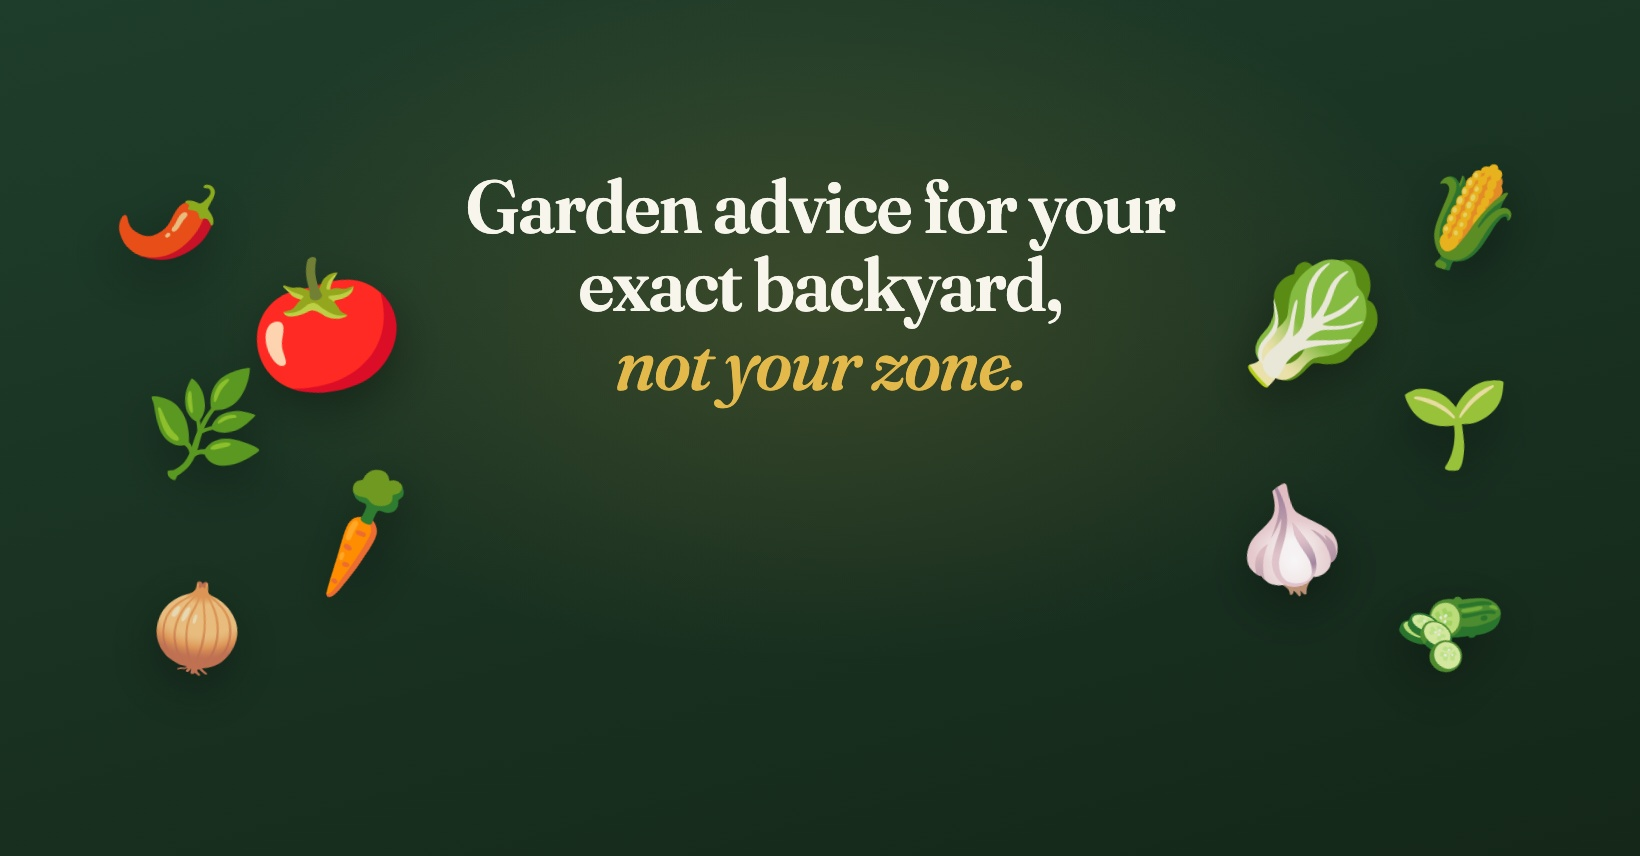
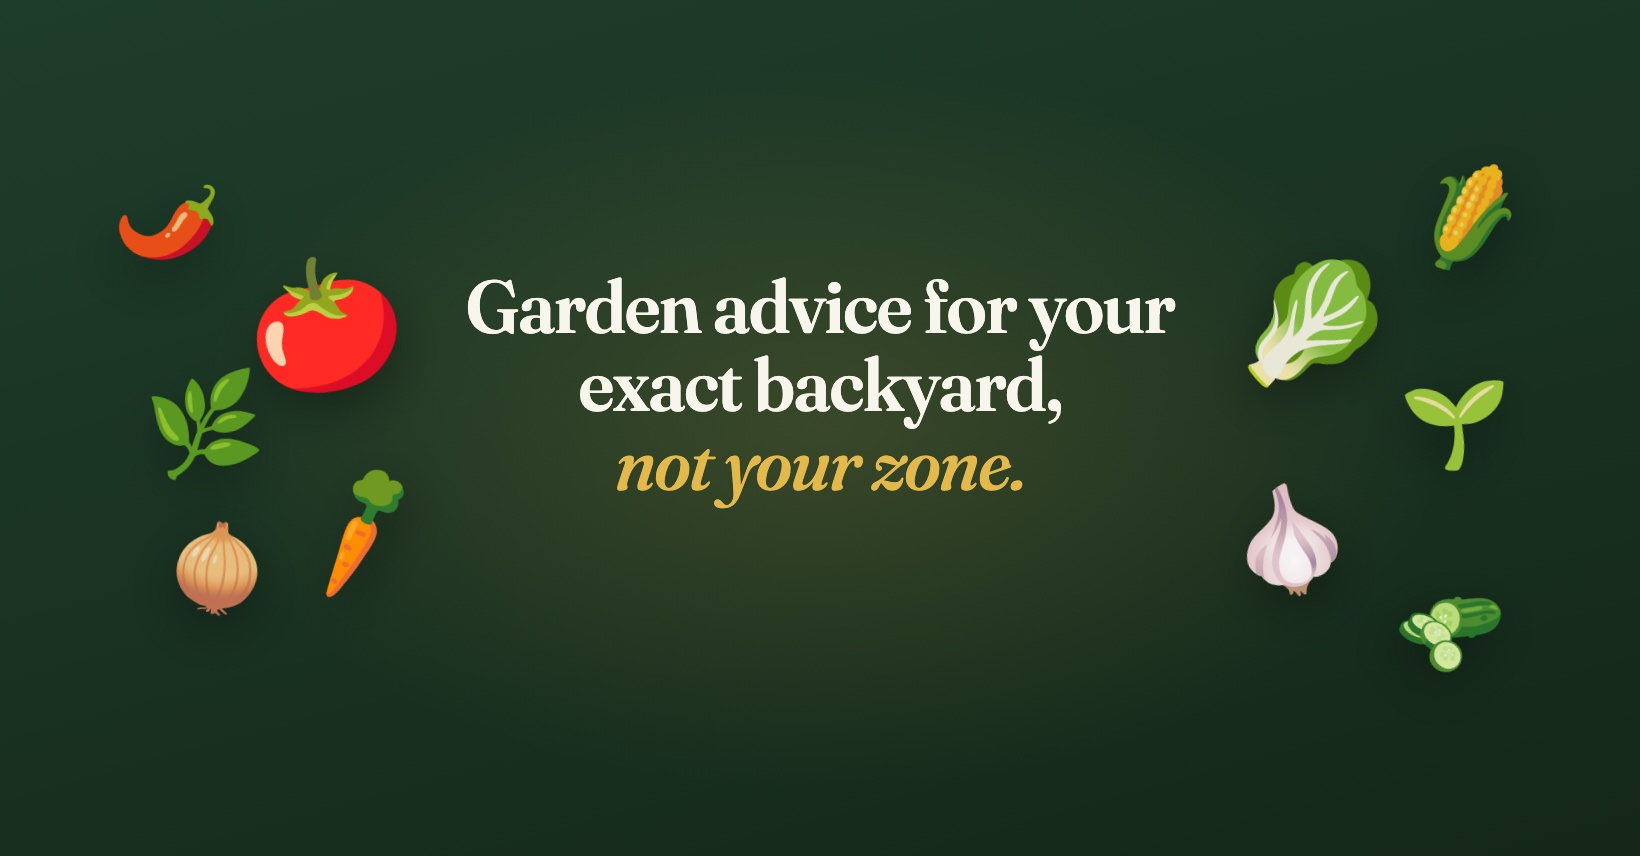
Facebook cover: centre the headline for the real Page layout (profile picture bottom-left)

Changed region(s): [[0.2799, 0.2126, 0.7152, 0.486], [0.3732, 0.5164, 0.622, 0.6075], [0.0933, 0.6075, 0.1555, 0.7897]]

diff --git a/marketing/facebook/cover-source.html b/marketing/facebook/cover-source.html
@@ -3,8 +3,8 @@
 <style>
 html,body{margin:0;width:1640px;height:856px;overflow:hidden}
 body{position:relative;
- background:radial-gradient(ellipse 900px 520px at 50% 35%,rgba(227,185,76,0.16),transparent 70%),linear-gradient(165deg,#1F3D2B 0%,#142719 100%)}
-.text{position:absolute;left:0;right:0;top:168px;display:flex;justify-content:center}
+ background:radial-gradient(ellipse 900px 520px at 50% 50%,rgba(227,185,76,0.16),transparent 70%),linear-gradient(165deg,#1F3D2B 0%,#142719 100%)}
+.text{position:absolute;left:0;right:0;top:268px;display:flex;justify-content:center}
 h1{font-family:'Fraunces',serif;font-weight:600;font-size:74px;line-height:1.06;color:#F7F5EC;margin:0;letter-spacing:-1.5px;text-align:center;max-width:860px}
 h1 em{font-style:italic;font-weight:500;color:#E3B94C}
 .emo{position:absolute;filter:drop-shadow(0 18px 24px rgba(0,0,0,0.32))}
@@ -14,7 +14,7 @@ h1 em{font-style:italic;font-weight:500;color:#E3B94C}
 <img class="emo" src="emoji/emoji_u1f955.svg" style="width:120px;left:300px;top:470px;transform:rotate(-24deg)">
 <img class="emo" src="emoji/emoji_u1f33f.svg" style="width:110px;left:150px;top:370px;transform:rotate(-6deg)">
 <img class="emo" src="emoji/emoji_u1f336.svg" style="width:96px;left:120px;top:170px;transform:rotate(18deg);opacity:0.9">
-<img class="emo" src="emoji/emoji_u1f9c5.svg" style="width:96px;left:150px;top:580px;transform:rotate(8deg);opacity:0.9">
+<img class="emo" src="emoji/emoji_u1f9c5.svg" style="width:96px;left:170px;top:520px;transform:rotate(8deg);opacity:0.9">
 <!-- right cluster -->
 <img class="emo" src="emoji/emoji_u1f96c.svg" style="width:150px;left:1240px;top:250px;transform:rotate(10deg)">
 <img class="emo" src="emoji/emoji_u1f9c4.svg" style="width:120px;left:1230px;top:480px;transform:rotate(-10deg)">
